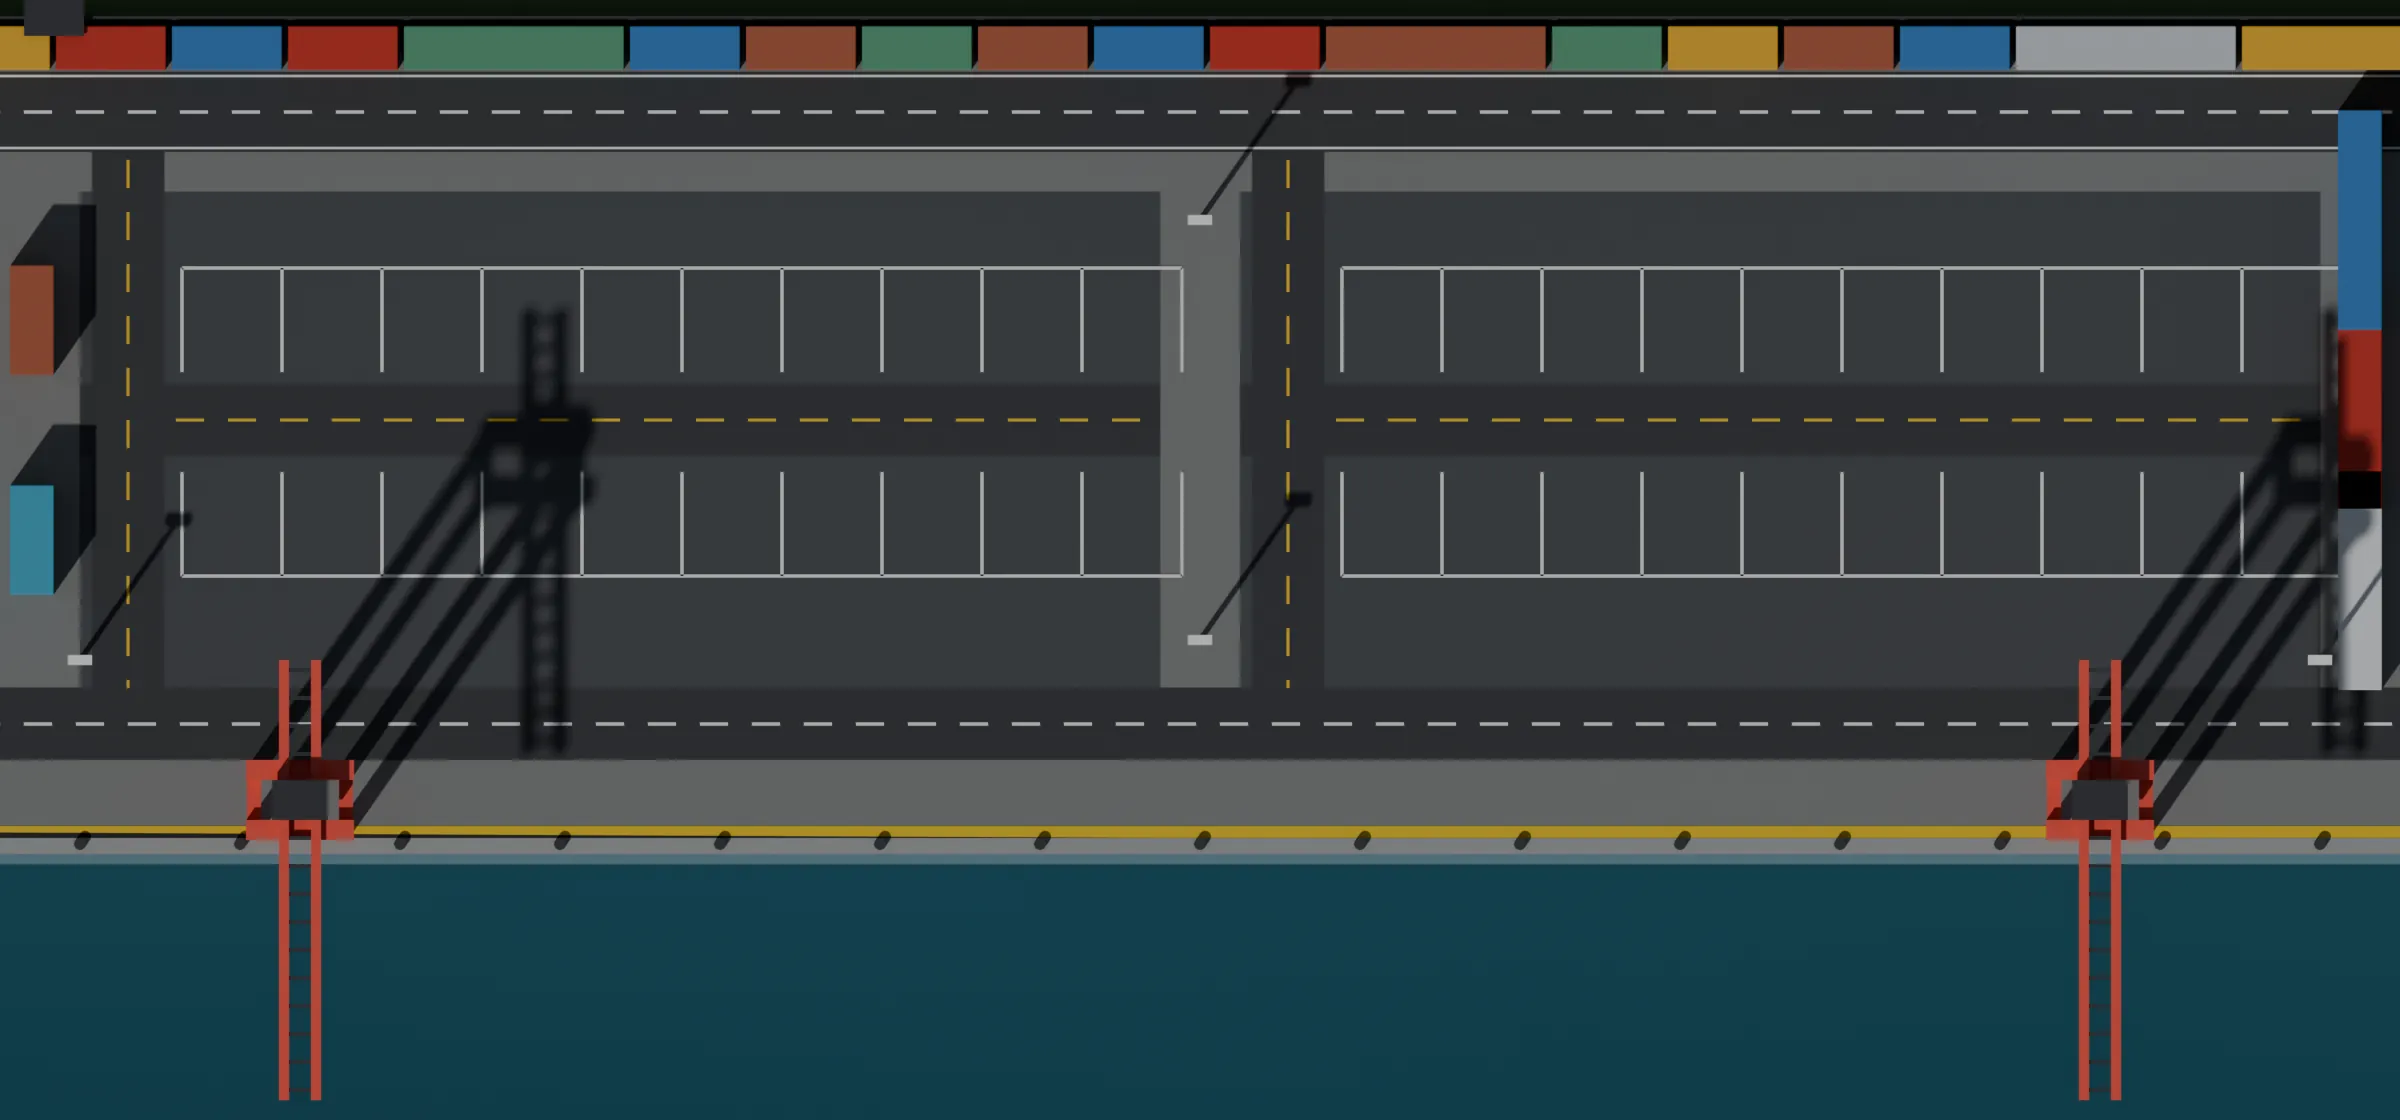
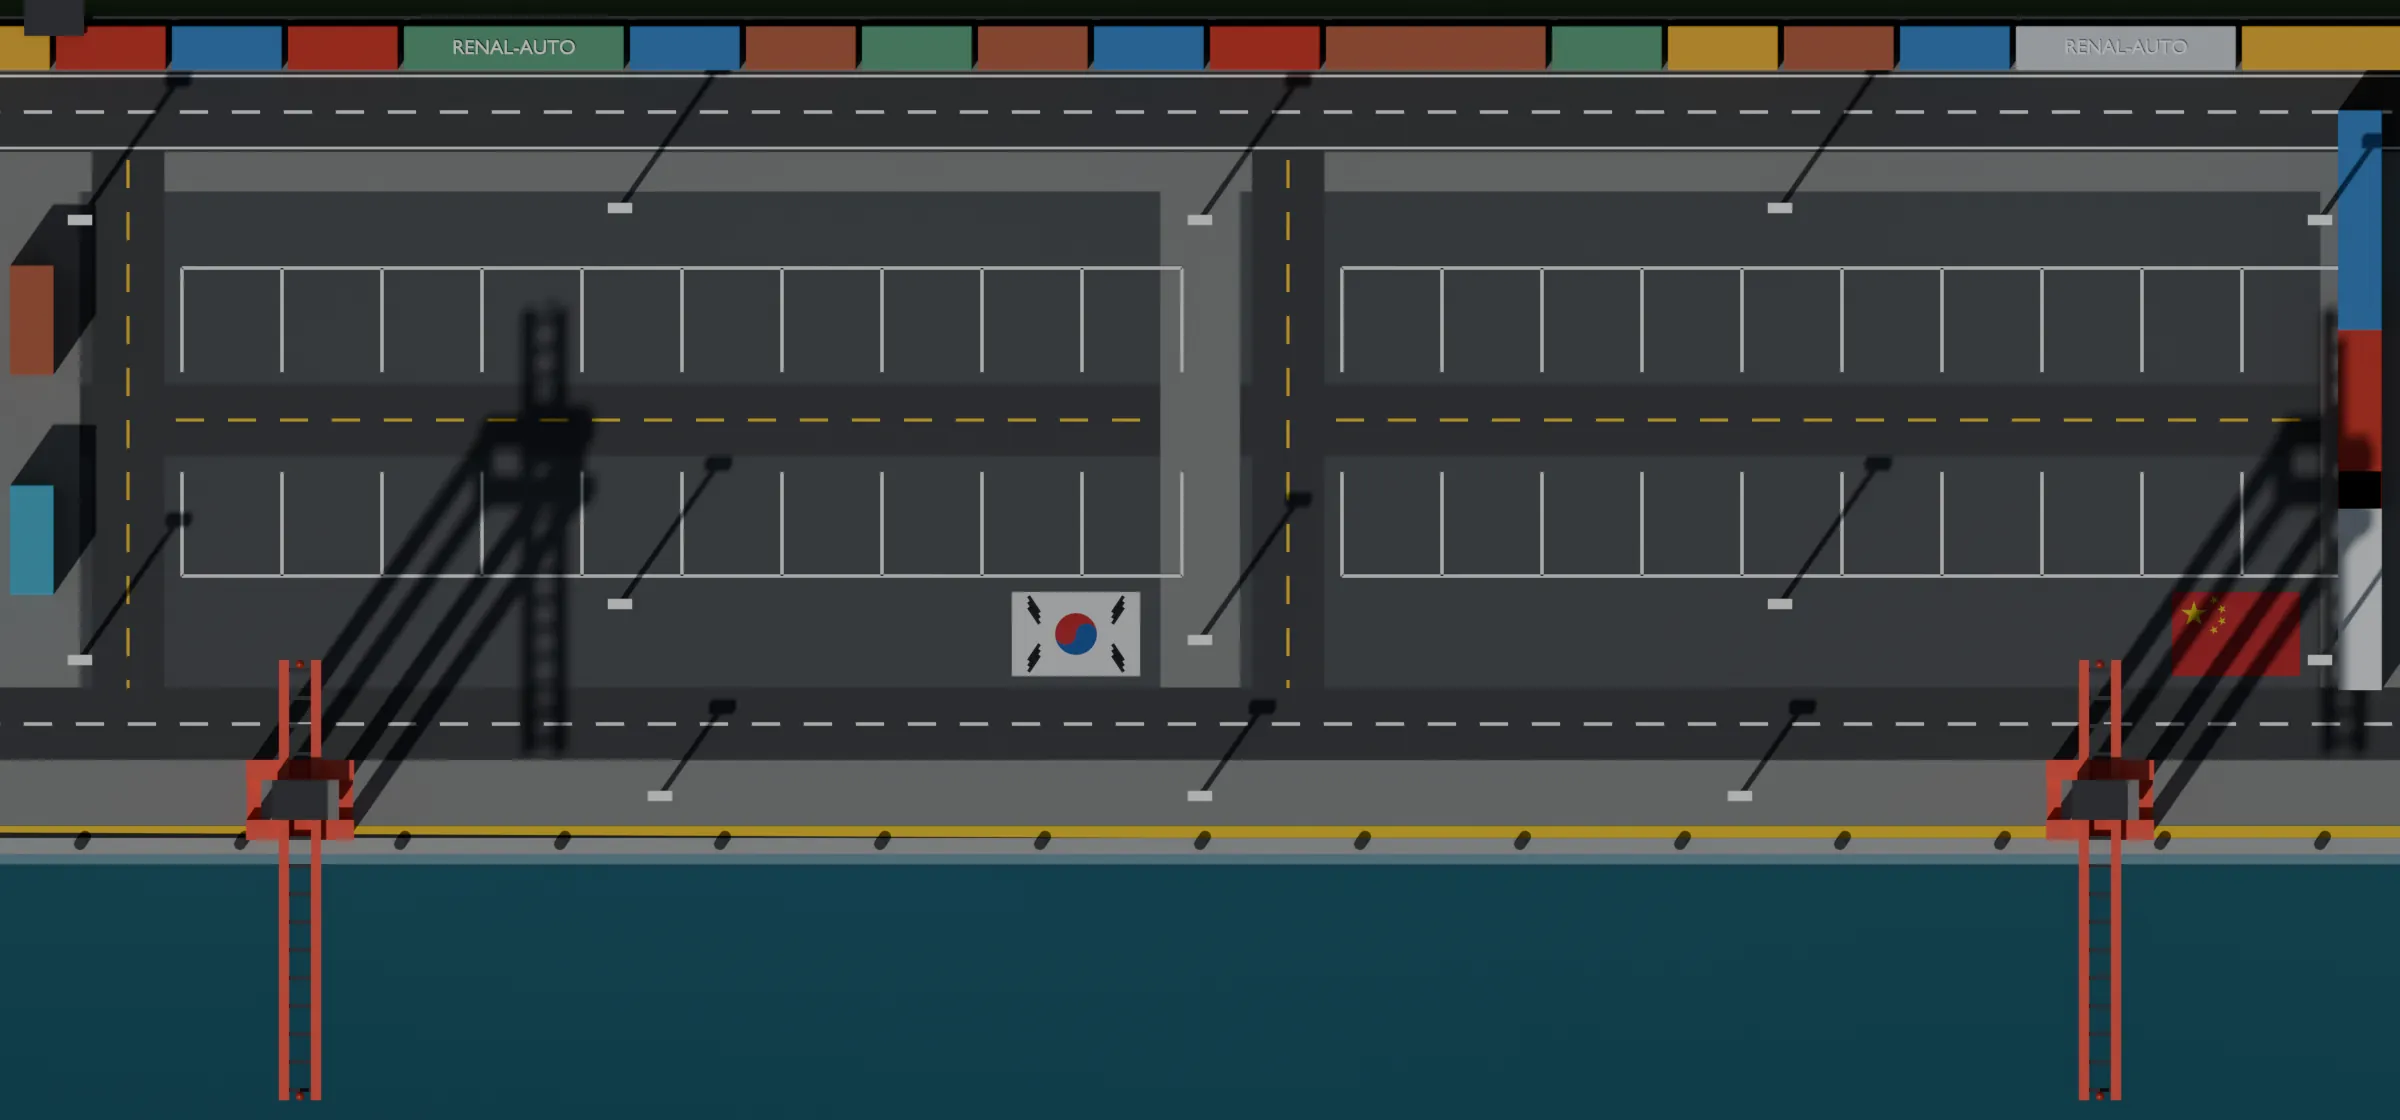
Port: final day and night yard renders
Day and night plates for desktop and mobile with the new details (flags,
stains, container logos, extra lights); night plates ≈ +60 KB.

Claude-Session: https://claude.ai/code/session_01VpMdufsLMDxyyWuN5c2SYn

diff --git a/renalauto/static/port.js b/renalauto/static/port.js
@@ -5,7 +5,7 @@
   const dataEl = document.getElementById('port-data');
   if (!root || !dataEl) return;
   const NS = 'http://www.w3.org/2000/svg';
-  const ASSETS = '/static/port', V = '4';  // V — поднять после перерендера
+  const ASSETS = '/static/port', V = '5';  // V — поднять после перерендера
   // Ночь — по времени Владивостока (там порт и офис); ?night=1 / ?night=0 — проверить вручную
   const NIGHT = (() => {
     const q = new URLSearchParams(location.search).get('night');
